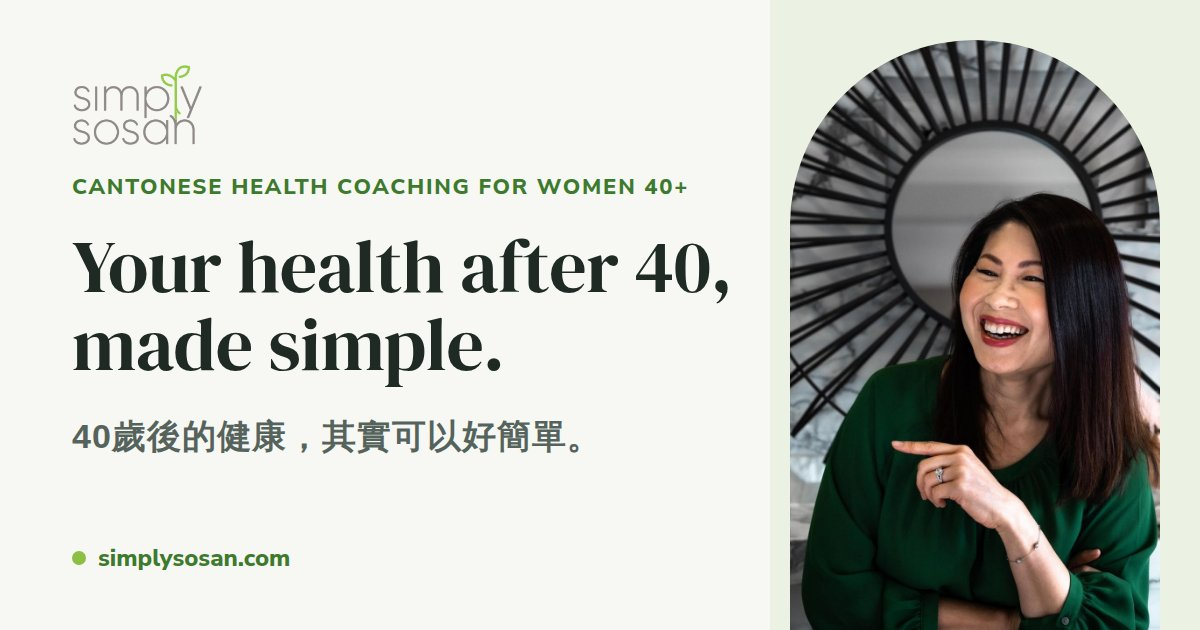
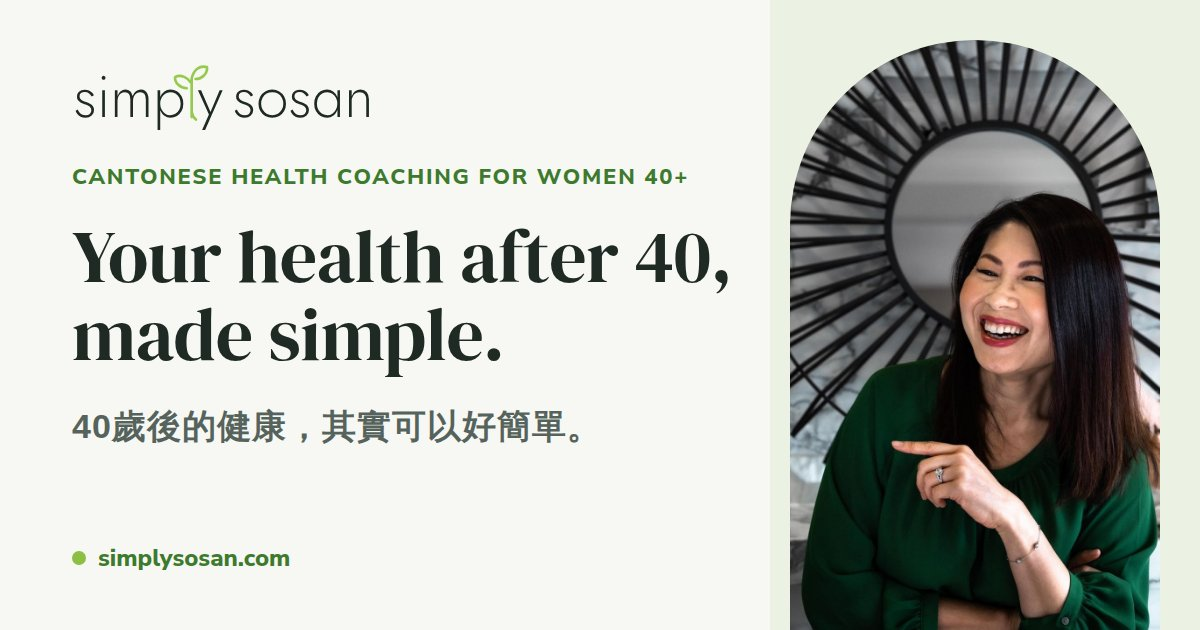
Put the wordmark in the site header and on the link-preview card
Every page's header used the original logo as a 480x300 raster with a
white box behind it in dark mode. It is now the one-line wordmark SVG: ink
on the light theme, white on the dark, switched by the same theme rules as
the rest of the site. The card (public/og.jpg) is re-rendered from
design/og.html with the wordmark in place of the old logo, and
public/img/logo.png, now unused, is removed.

Claude-Session: https://claude.ai/code/session_01XAv5LnKDaf9tzsu2sNt4b4

diff --git a/public/styles.css b/public/styles.css
@@ -49,10 +49,16 @@ p{margin:0}
 /* Header */
 .site-head{background:var(--surface);border-bottom:1px solid var(--line)}
 .site-head .wrap{display:flex;align-items:center;gap:12px 28px;flex-wrap:wrap;padding-block:12px}
-.brand img{height:54px;width:auto}
-.brand{flex:none;border-radius:8px}
-:root[data-theme="dark"] .brand img{background:#fff;border-radius:8px;padding:2px 6px}
-@media (prefers-color-scheme: dark){:root:not([data-theme="light"]) .brand img{background:#fff;border-radius:8px;padding:2px 6px}}
+/* The one-line wordmark: ink on the light theme, white on the dark one. */
+.brand{flex:none;display:block;line-height:0}
+.brand img{height:46px;width:auto}
+.brand .logo-white{display:none}
+:root[data-theme="dark"] .brand .logo-ink{display:none}
+:root[data-theme="dark"] .brand .logo-white{display:block}
+@media (prefers-color-scheme: dark){
+  :root:not([data-theme="light"]) .brand .logo-ink{display:none}
+  :root:not([data-theme="light"]) .brand .logo-white{display:block}
+}
 .site-nav{display:flex;flex-wrap:wrap;gap:4px 20px;align-items:center;flex:1;font-size:16.5px;font-weight:600}
 .site-nav a{color:var(--ink);text-decoration:none;padding:6px 0}
 .site-nav a:hover,.site-nav a[aria-current="page"]{color:var(--accent);text-decoration:underline;text-underline-offset:6px;text-decoration-thickness:2px}
@@ -159,7 +165,7 @@ label.check input{width:20px;height:20px;accent-color:var(--accent)}
   .wrap{padding-inline:16px}
   .grid-2,.cycle,.form .row{grid-template-columns:1fr}
   .creds div{grid-template-columns:1fr;gap:2px}
-  .brand img{height:44px}
+  .brand img{height:38px}
   .site-nav{order:3;flex-basis:100%;font-size:16px;gap:2px 16px}
   .card,.form,blockquote{padding:20px}
 }

diff --git a/design/og.html b/design/og.html
@@ -12,7 +12,7 @@
 html,body{width:1200px;height:630px;overflow:hidden}
 body{background:#F7F8F4;color:#1F2A24;font-family:"Nunito Sans",sans-serif;display:grid;grid-template-columns:1fr 430px}
 .copy{padding:64px 0 56px 72px;display:flex;flex-direction:column;gap:26px}
-.logo{height:82px;width:auto;align-self:flex-start}
+.logo{height:66px;width:auto;align-self:flex-start;margin-bottom:6px}
 .eyebrow{font-weight:800;font-size:22px;letter-spacing:.08em;text-transform:uppercase;color:#3E7A2D}
 h1{font-family:"DM Serif Display",serif;font-weight:400;font-size:74px;line-height:1.05;letter-spacing:-.005em}
 .zh{font-family:"Noto Sans TC",sans-serif;font-weight:700;font-size:34px;color:#56635C;letter-spacing:.03em}
@@ -24,7 +24,7 @@ h1{font-family:"DM Serif Display",serif;font-weight:400;font-size:74px;line-heig
 </head>
 <body>
   <div class="copy">
-    <img class="logo" src="../public/img/logo.png" alt="">
+    <img class="logo" src="../public/brand/logo/wordmark-line.svg" alt="">
     <div class="eyebrow">Cantonese health coaching for women 40+</div>
     <h1>Your health after 40, made simple.</h1>
     <div class="zh">40歲後的健康，其實可以好簡單。</div>

diff --git a/public/membership.html b/public/membership.html
@@ -35,7 +35,7 @@
 
 <header class="site-head">
   <div class="wrap">
-    <a class="brand" href="index.html" aria-label="Simply Sosan home"><img src="img/logo.png" alt="Simply Sosan" width="480" height="300"></a>
+    <a class="brand" href="index.html" aria-label="Simply Sosan home"><img class="logo-ink" src="/brand/logo/wordmark-line.svg" alt="simply sosan" width="300" height="65"><img class="logo-white" src="/brand/logo/wordmark-line-white.svg" alt="" width="300" height="65"></a>
     <nav class="site-nav" aria-label="Main">
       <a href="programs.html"><span lang="en">Programs</span><span lang="zh-Hant">課程</span></a>
       <a href="membership.html" aria-current="page"><span lang="en">Wellness Club</span><span lang="zh-Hant">有營同學會</span></a>

diff --git a/public/programs.html b/public/programs.html
@@ -35,7 +35,7 @@
 
 <header class="site-head">
   <div class="wrap">
-    <a class="brand" href="index.html" aria-label="Simply Sosan home"><img src="img/logo.png" alt="Simply Sosan" width="480" height="300"></a>
+    <a class="brand" href="index.html" aria-label="Simply Sosan home"><img class="logo-ink" src="/brand/logo/wordmark-line.svg" alt="simply sosan" width="300" height="65"><img class="logo-white" src="/brand/logo/wordmark-line-white.svg" alt="" width="300" height="65"></a>
     <nav class="site-nav" aria-label="Main">
       <a href="programs.html" aria-current="page"><span lang="en">Programs</span><span lang="zh-Hant">課程</span></a>
       <a href="membership.html"><span lang="en">Wellness Club</span><span lang="zh-Hant">有營同學會</span></a>

diff --git a/public/about.html b/public/about.html
@@ -35,7 +35,7 @@
 
 <header class="site-head">
   <div class="wrap">
-    <a class="brand" href="index.html" aria-label="Simply Sosan home"><img src="img/logo.png" alt="Simply Sosan" width="480" height="300"></a>
+    <a class="brand" href="index.html" aria-label="Simply Sosan home"><img class="logo-ink" src="/brand/logo/wordmark-line.svg" alt="simply sosan" width="300" height="65"><img class="logo-white" src="/brand/logo/wordmark-line-white.svg" alt="" width="300" height="65"></a>
     <nav class="site-nav" aria-label="Main">
       <a href="programs.html"><span lang="en">Programs</span><span lang="zh-Hant">課程</span></a>
       <a href="membership.html"><span lang="en">Wellness Club</span><span lang="zh-Hant">有營同學會</span></a>

diff --git a/public/index.html b/public/index.html
@@ -35,7 +35,7 @@
 
 <header class="site-head">
   <div class="wrap">
-    <a class="brand" href="index.html" aria-label="Simply Sosan home"><img src="img/logo.png" alt="Simply Sosan" width="480" height="300"></a>
+    <a class="brand" href="index.html" aria-label="Simply Sosan home"><img class="logo-ink" src="/brand/logo/wordmark-line.svg" alt="simply sosan" width="300" height="65"><img class="logo-white" src="/brand/logo/wordmark-line-white.svg" alt="" width="300" height="65"></a>
     <nav class="site-nav" aria-label="Main">
       <a href="programs.html"><span lang="en">Programs</span><span lang="zh-Hant">課程</span></a>
       <a href="membership.html"><span lang="en">Wellness Club</span><span lang="zh-Hant">有營同學會</span></a>

diff --git a/public/login.html b/public/login.html
@@ -35,7 +35,7 @@
 
 <header class="site-head">
   <div class="wrap">
-    <a class="brand" href="index.html" aria-label="Simply Sosan home"><img src="img/logo.png" alt="Simply Sosan" width="480" height="300"></a>
+    <a class="brand" href="index.html" aria-label="Simply Sosan home"><img class="logo-ink" src="/brand/logo/wordmark-line.svg" alt="simply sosan" width="300" height="65"><img class="logo-white" src="/brand/logo/wordmark-line-white.svg" alt="" width="300" height="65"></a>
     <nav class="site-nav" aria-label="Main">
       <a href="programs.html"><span lang="en">Programs</span><span lang="zh-Hant">課程</span></a>
       <a href="membership.html"><span lang="en">Wellness Club</span><span lang="zh-Hant">有營同學會</span></a>

diff --git a/public/podcast.html b/public/podcast.html
@@ -35,7 +35,7 @@
 
 <header class="site-head">
   <div class="wrap">
-    <a class="brand" href="index.html" aria-label="Simply Sosan home"><img src="img/logo.png" alt="Simply Sosan" width="480" height="300"></a>
+    <a class="brand" href="index.html" aria-label="Simply Sosan home"><img class="logo-ink" src="/brand/logo/wordmark-line.svg" alt="simply sosan" width="300" height="65"><img class="logo-white" src="/brand/logo/wordmark-line-white.svg" alt="" width="300" height="65"></a>
     <nav class="site-nav" aria-label="Main">
       <a href="programs.html"><span lang="en">Programs</span><span lang="zh-Hant">課程</span></a>
       <a href="membership.html"><span lang="en">Wellness Club</span><span lang="zh-Hant">有營同學會</span></a>

diff --git a/public/privacy.html b/public/privacy.html
@@ -35,7 +35,7 @@
 
 <header class="site-head">
   <div class="wrap">
-    <a class="brand" href="index.html" aria-label="Simply Sosan home"><img src="img/logo.png" alt="Simply Sosan" width="480" height="300"></a>
+    <a class="brand" href="index.html" aria-label="Simply Sosan home"><img class="logo-ink" src="/brand/logo/wordmark-line.svg" alt="simply sosan" width="300" height="65"><img class="logo-white" src="/brand/logo/wordmark-line-white.svg" alt="" width="300" height="65"></a>
     <nav class="site-nav" aria-label="Main">
       <a href="programs.html"><span lang="en">Programs</span><span lang="zh-Hant">課程</span></a>
       <a href="membership.html"><span lang="en">Wellness Club</span><span lang="zh-Hant">有營同學會</span></a>

diff --git a/public/resources.html b/public/resources.html
@@ -35,7 +35,7 @@
 
 <header class="site-head">
   <div class="wrap">
-    <a class="brand" href="index.html" aria-label="Simply Sosan home"><img src="img/logo.png" alt="Simply Sosan" width="480" height="300"></a>
+    <a class="brand" href="index.html" aria-label="Simply Sosan home"><img class="logo-ink" src="/brand/logo/wordmark-line.svg" alt="simply sosan" width="300" height="65"><img class="logo-white" src="/brand/logo/wordmark-line-white.svg" alt="" width="300" height="65"></a>
     <nav class="site-nav" aria-label="Main">
       <a href="programs.html"><span lang="en">Programs</span><span lang="zh-Hant">課程</span></a>
       <a href="membership.html"><span lang="en">Wellness Club</span><span lang="zh-Hant">有營同學會</span></a>

diff --git a/public/terms.html b/public/terms.html
@@ -35,7 +35,7 @@
 
 <header class="site-head">
   <div class="wrap">
-    <a class="brand" href="index.html" aria-label="Simply Sosan home"><img src="img/logo.png" alt="Simply Sosan" width="480" height="300"></a>
+    <a class="brand" href="index.html" aria-label="Simply Sosan home"><img class="logo-ink" src="/brand/logo/wordmark-line.svg" alt="simply sosan" width="300" height="65"><img class="logo-white" src="/brand/logo/wordmark-line-white.svg" alt="" width="300" height="65"></a>
     <nav class="site-nav" aria-label="Main">
       <a href="programs.html"><span lang="en">Programs</span><span lang="zh-Hant">課程</span></a>
       <a href="membership.html"><span lang="en">Wellness Club</span><span lang="zh-Hant">有營同學會</span></a>

diff --git a/public/brand/index.html b/public/brand/index.html
@@ -77,7 +77,7 @@
 
 <header class="site-head guide-head">
   <div class="wrap">
-    <a class="brand" href="/" aria-label="Simply Sosan home"><img src="/brand/logo/logo-horizontal.svg" alt="Simply Sosan" width="300" height="74"></a>
+    <a class="brand" href="/" aria-label="Simply Sosan home"><img class="logo-ink" src="/brand/logo/wordmark-line.svg" alt="simply sosan"><img class="logo-white" src="/brand/logo/wordmark-line-white.svg" alt=""></a>
     <span>Brand guide</span>
   </div>
 </header>
